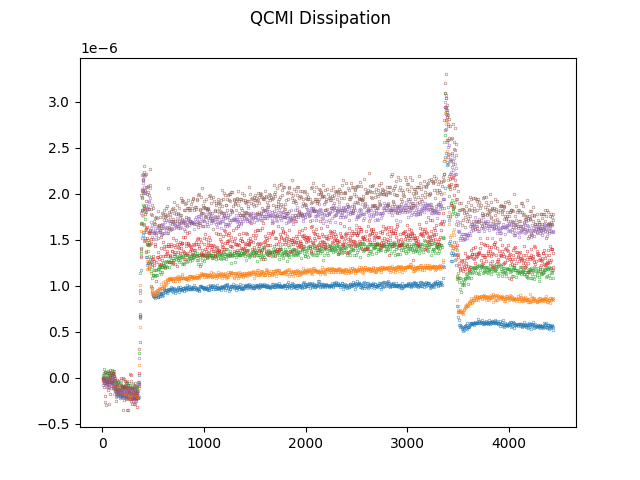
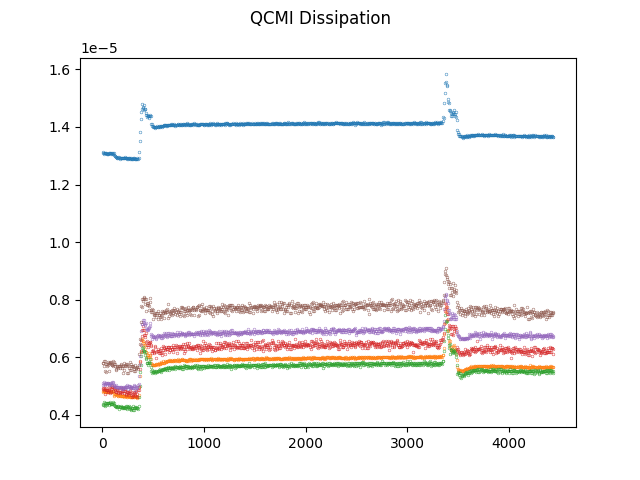
more test scripts for qcmi fwhm conversion problem

diff --git a/deprecated/qcmi_dissipation_test.py b/deprecated/qcmi_dissipation_test.py
@@ -1,0 +1,71 @@
+import pandas as pd
+import matplotlib.pyplot as plt
+pd.options.display.float_format = f'{{:.{12}f}}'.format
+
+qcmi_df = pd.read_csv("../raw_data/QSM-I-BSA_1mgpml.csv")
+
+qcmi_offset_df = pd.read_excel("../offset_data/QCMI-BSA-offset.xlsx", index_col=None)
+
+# get dis vals
+# convert qcmi from FWHM to actual value
+# FWHM_n / rf_n
+fwhm = qcmi_offset_df.filter(like='D_').loc[0].values # get fwhm values
+freqs = qcmi_offset_df.filter(like='F_').loc[0].values # get fwhm values
+qcmi_offset_dis = (fwhm / freqs)
+print(fwhm, freqs, qcmi_offset_dis)
+
+print('***OFFSETS\nQCMI:', '\n', qcmi_offset_dis)
+
+qcmi_delta_cols = [
+    'Channel A QCM Time [sec]',
+    #'Channel A Fundamental Dissipation Variation [ ]',
+    'Channel A 3. Dissipation Variation [ ]',
+    'Channel A 5. Dissipation Variation [ ]',
+    'Channel A 7. Dissipation Variation [ ]',
+    'Channel A 9. Dissipation Variation [ ]',
+    'Channel A 11. Dissipation Variation [ ]',
+    'Channel A 13. Dissipation Variation [ ]'
+]
+
+qcmi_val_cols = [
+    'Channel A QCM Time [sec]',
+    #'Channel A Fundamental Dissipation [ ]',
+    'Channel A 3. Dissipation  [ ]',
+    'Channel A 5. Dissipation  [ ]',
+    'Channel A 7. Dissipation  [ ]',
+    'Channel A 9. Dissipation  [ ]',
+    'Channel A 11. Dissipation  [ ]',
+    'Channel A 13. Dissipation  [ ]',
+
+]
+
+dis_fig, dis_ax = plt.subplots()
+dis_fig.suptitle("Combined Dissipation")
+qcmi_delta_fig, qcmi_delta_ax = plt.subplots()
+qcmi_delta_fig.suptitle("QCMI DELTA + OFFSETS Dissipation")
+qcmi_val_fig, qcmi_val_ax = plt.subplots()
+qcmi_val_fig.suptitle("QCMI FULL VALUES Dissipation")
+num_overtones = len(qcmi_val_cols)
+
+print("***BEFORE ADDING OFFSETS\n", qcmi_df[qcmi_delta_cols[1]])
+
+# adding offset vals
+for i, col in enumerate(qcmi_delta_cols):
+    if not col.__contains__('Time'):
+        qcmi_df[col] += qcmi_offset_dis[i-1]
+        
+print("***OFFSETS ADDED\n", qcmi_df[qcmi_delta_cols[1]], "\n***FULL VALUES\n",qcmi_df[qcmi_val_cols[1]])
+
+
+for i in range(num_overtones-1):
+    qcmi_delta_ax.plot(qcmi_df[qcmi_delta_cols[0]].values, qcmi_df[qcmi_delta_cols[i+1]],'o', markersize=2, label=qcmi_delta_cols[i+1], markerfacecolor='none', markeredgewidth=0.32)
+    qcmi_val_ax.plot(qcmi_df[qcmi_val_cols[0]].values, qcmi_df[qcmi_val_cols[i+1]].values,'.', markersize=2, label=qcmi_val_cols[i+1], markerfacecolor='none', markeredgewidth=0.32)
+    
+    dis_ax.plot(qcmi_df[qcmi_delta_cols[0]].values, qcmi_df[qcmi_delta_cols[i+1]].values,'.', markersize=2, label=qcmi_delta_cols[i+1], markerfacecolor='none', markeredgewidth=0.32)
+    dis_ax.plot(qcmi_df[qcmi_val_cols[0]].values, qcmi_df[qcmi_val_cols[i+1]],'o', markersize=2, label=qcmi_val_cols[i+1], markerfacecolor='none', markeredgewidth=0.32)
+
+#plt.show()
+
+qcmi_delta_fig.savefig("QCMi-DELTA-W-OFFSETS.png")
+qcmi_val_fig.savefig("QCMI-FULL-VALUES.png")
+dis_fig.savefig("combined.png")

diff --git a/deprecated/dissipation_test.py b/deprecated/dissipation_test.py
@@ -8,12 +8,17 @@ print(qcmi_df, '\n', qsense_df)
 qsense_offset_df = pd.read_excel("../offset_data/QSense_BSA-offset.xlsx", index_col=None)
 qcmi_offset_df = pd.read_excel("../offset_data/QCMI-BSA-offset.xlsx", index_col=None)
 
-# only want dissipation
-qsense_offset_df = qsense_offset_df.filter(like='D_')
-qcmi_offset_df = qcmi_offset_df.filter(like='D_')
+# get dis vals
+qsense_offset_dis = qsense_offset_df.filter(like='D_').values[0]
 
 # convert qcmi from FWHM to actual value
-print('***OFFSETS\nQCMI:', '\n', qcmi_offset_df, '\nQSENSE:', '\n', qsense_offset_df)
+# FWHM_n / rf_n
+fwhm = qcmi_offset_df.filter(like='D_').loc[0].values # get fwhm values
+freqs = qcmi_offset_df.filter(like='F_').loc[0].values # get fwhm values
+qcmi_offset_dis = (fwhm / freqs)
+print(fwhm, freqs, qcmi_offset_dis)
+
+print('***OFFSETS\nQCMI:', '\n', qcmi_offset_dis, '\nQSENSE:', '\n', qsense_offset_dis)
 
 
 qsense_cols = [
@@ -38,13 +43,39 @@ qcmi_cols = [
     'Channel A 13. Dissipation Variation [ ]'
 ]
 
+qcmi_val_cols = [
+    'Channel A QCM Time [sec]',
+    #'Channel A Fundamental Dissipation [ ]',
+    'Channel A 3. Dissipation  [ ]',
+    'Channel A 5. Dissipation  [ ]',
+    'Channel A 7. Dissipation  [ ]',
+    'Channel A 9. Dissipation  [ ]',
+    'Channel A 11. Dissipation  [ ]',
+    'Channel A 13. Dissipation  [ ]',
+
+]
+
 dis_fig, dis_ax = plt.subplots()
 dis_fig.suptitle("Combined Dissipation")
 qcmi_fig, qcmi_ax = plt.subplots()
 qcmi_fig.suptitle("QCMI Dissipation")
 qsense_fig, qsense_ax = plt.subplots()
 qsense_fig.suptitle("Qsense Dissipation")
+qcmi_val_fig, qcmi_val_ax = plt.subplots()
 num_overtones = len(qcmi_cols)
+
+# adding offset vals
+for i, col in enumerate(qsense_cols):
+    if not col.__contains__('Time'):
+        print(qsense_offset_dis[i-1])
+        qsense_df[col] += qsense_offset_dis[i-1]
+
+for i, col in enumerate(qcmi_cols):
+    if not col.__contains__('Time'):
+        qcmi_df[col] += qcmi_offset_dis[i-1]
+        
+print("***OFFSETS ADDED\n", qcmi_df, '\n', qsense_df)
+
 
 for i in range(num_overtones-1):
     qcmi_ax.plot(qcmi_df[qcmi_cols[0]].values, qcmi_df[qcmi_cols[i+1]],'o', markersize=2, label=qcmi_cols[i+1], markerfacecolor='none', markeredgewidth=0.32)
